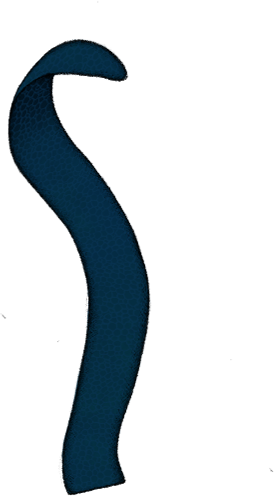
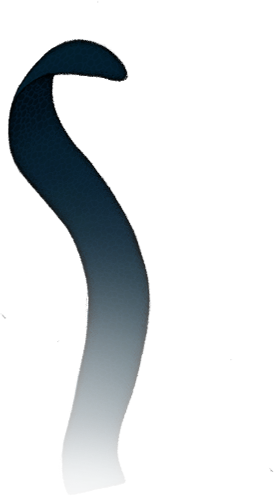
Leithaus: storm-grey site background, new wider land PNG, new grass blade artwork, layer tuning
29-file delta upload from 2026-05-16 evening session.

Index.html changes:
- Body background-image: dark-grey-storm-background@2x.gif, sized 1000x1000 with 50% black overlay, fixed attachment
- .content-body switched to transparent so the storm bg shows behind page sections too
- Hero stage scaled 100vmin to 130vmin (lighthouse + bursts 30% bigger)
- .parallax-layer height 100vh to 104vh; bottom calc(-8vh - 140px); .layer-land separately at 88.4vh, 95% reduction from common 104vh
- .layer-grass width calc(104vh * 5551 / 4621)
- @keyframes sway scale(1.248)
- All 37 grass blade left:% values multiplied by 1.2 to spread cluster 20% wider
- .layer-divider moved to bottom: -75px

Assets:
- land-in-place.png: replaced with wider painted cliff variant (same 5551x4621 canvas)
- dark-grey-storm-background@2x.gif: new 4000x4000 storm-grey texture for site bg
- 7 blade-bunch PNGs + 19 blade-* PNGs: all replaced with greyscale-tested variants

Changed region(s): [[0.2044, 0.4536, 0.5547, 0.998], [0.0876, 0.0907, 0.438, 0.1815]]

diff --git a/index.html b/index.html
@@ -24,7 +24,20 @@
   * { margin: 0; padding: 0; box-sizing: border-box; }
   html { scroll-behavior: smooth; }
   body {
-    background: var(--ink);
+    /* Site-wide background texture: 4000×4000 storm-grey gif, displayed
+       at 1000×1000 (50% of @2x intent — May 16 Hannah tuning). Repeats
+       to fill larger viewports. A 50% black overlay sits on top of the
+       gif via a stacked linear-gradient layer, simulating ~50% opacity
+       on the texture against the pure-black --ink base. .content-body
+       is set to transparent below so the gif shows behind page sections
+       too, not just the hero. */
+    background:
+      linear-gradient(rgba(0,0,0,0.5), rgba(0,0,0,0.5)),
+      url('dark-grey-storm-background@2x.gif') var(--ink);
+    background-size: auto, 1000px 1000px;
+    background-repeat: no-repeat, repeat;
+    background-attachment: fixed, fixed;
+    background-position: center, center top;
     color: var(--parchment);
     font-family: 'Libre Franklin', sans-serif;
     font-weight: 300;
@@ -134,11 +147,16 @@
      wrong width on first paint and snaps later. A div with
      background-image has no replaced-element race. */
   .hero-stage {
+    /* Stage scaled to 130vmin on May 16 (was 100vmin) — Hannah wanted
+       the lighthouse + burst composition 30% bigger. The top/left calc
+       values shift to -65vmin (was -50vmin) so the stage center — the
+       lantern — stays anchored at viewport (15vw, 35vh). To revert,
+       change all three values back to 100vmin / 50vmin pair. */
     position: absolute;
-    width: 100vmin;
-    height: 100vmin;
-    top: calc(35vh - 50vmin);
-    left: calc(15vw - 50vmin);
+    width: 130vmin;
+    height: 130vmin;
+    top: calc(35vh - 65vmin);
+    left: calc(15vw - 65vmin);
     display: grid;
     grid-template-areas: "stack";
     pointer-events: none;
@@ -190,15 +208,23 @@
      a paired unit that moves as one. The cliff/rocks artwork lives at
      canvas y 45-65%, with grass below that.
 
-     `bottom: -8vh` pushes both layers down past the viewport bottom
-     by 8vh, sliding the visible cliff up so it meets the lighthouse
-     base. Tune this single value to slide the whole land+grass unit
-     up (less negative) or down (more negative) as a unit. */
+     `bottom: calc(-8vh - 50px)` pushes both layers down past the viewport
+     bottom — the -8vh handles the proportional offset, the additional
+     -50px is Hannah's tuning (May 16) to drop the grass blades behind
+     the painted cliff at hero start. Tune the additional pixel value
+     to slide the whole land+grass unit up (less negative) or down
+     (more negative) as a unit. */
   .parallax-layer {
+    /* height: 104vh on May 16 second pass — reduced 20% from the
+       130vh I'd set earlier today, because the bigger land was
+       pushing the cliff peak up into the lighthouse base. Bottom
+       offset increased from -50px to -150px (drops the unit another
+       100px lower at start). Keep .layer-grass width formula and
+       grass keyframe scale below in sync if changing this again. */
     position: absolute;
-    bottom: -8vh;
+    bottom: calc(-8vh - 140px);
     left: 0;
-    height: 100vh;
+    height: 104vh;
     width: auto;
     pointer-events: none;
     will-change: transform;
@@ -208,7 +234,16 @@
     height: 100%;
     width: auto;
   }
-  .layer-land { z-index: 4; }
+  .layer-land {
+    z-index: 4;
+    /* Land-only height override added May 16 — shrinks the land PNG
+       by ~5% (98.8vh = 104vh × 0.95) without touching the grass layer
+       or grass blade scale. Hannah's call after the wider painted
+       cliff dropped in. Width is auto so the PNG scales proportionally.
+       (Was 88.4vh / -15% briefly; that was too aggressive — the cliff
+       collapsed to a tuft.) */
+    height: 98.8vh;
+  }
   /* Grass clusters around the rocks — anchored to the same canvas
      as the lighthouse + land so it stays on the left as the browser
      resizes (no crowding when narrow, no thinning when wide).
@@ -222,10 +257,11 @@
      rendered at the same width as the grass layer so the horizontal
      extent matches. Position with `bottom: 0` so the divider's lower
      edge sits at the viewport bottom; tune that value to slide the
-     divider up or down across the grass bases. */
+     divider up or down across the grass bases. Adjusted to 5px
+     (was 55px) on May 16 to follow the land+grass 50px drop. */
   .layer-divider {
     position: absolute;
-    bottom: 55px;
+    bottom: -75px;
     left: 0;
     /* Width sized to cover just the grass extent (the grass blades
        cluster in the left ~68% of the land/grass layer, which itself
@@ -245,7 +281,11 @@
 
   .layer-grass {
     z-index: 5;
-    width: calc(100vh * 5551 / 4621);
+    /* Width formula uses 104vh to match the parallax-layer height
+       (May 16 second pass — was 130vh in the first pass, 100vh
+       originally). Aspect ratio of the canvas (5551 × 4621)
+       is preserved. */
+    width: calc(104vh * 5551 / 4621);
     /* No layer-level mask — the previous version applied the gradient
        on the layer container, but each blade has `will-change: transform`
        (for the sway animation) which puts it on its own GPU compositor
@@ -274,60 +314,64 @@
        gradient could. */
   }
   @keyframes sway {
-    /* scale(1.2) bakes the +20% size into the animation transform, so
-       it doesn't get overridden by the rotation animation. To revert
-       to original size, change scale(1.2) → scale(1) in both keyframes. */
-    0%   { transform: rotate(-2.5deg) scale(1.2); }
-    100% { transform: rotate(2.5deg) scale(1.2); }
+    /* scale(1.248) on May 16 second pass. Was 1.56 in the first
+       (overscaled) pass, was 1.2 before that. Calculation:
+       1.56 × 0.8 = 1.248 — keeps the grass 20% smaller than
+       the first-pass scaling, in proportion with the 104vh land.
+       To revert: 1.2 for original-with-bump, 1.0 for pure unscaled. */
+    0%   { transform: rotate(-2.5deg) scale(1.248); }
+    100% { transform: rotate(2.5deg) scale(1.248); }
   }
   /* All percentages here are of the canvas-width layer
      (100vh × 5551/4621 ≈ 120vh). Grass clusters in the left ~60% of
      the canvas, tapering smaller on the right edge so it dissolves
      into the dark rather than ending abruptly. */
   /* FRONT row — taller bunches at the foreground ground line. Spaced
-     ~6% apart for breathing room. Last 3 bunches scaled down to taper. */
-  .grass.g1  { left:  -1%; bottom: 30vh; height: 11vh;   animation-duration: 4.6s; animation-delay: -1.3s; }
-  .grass.g2  { left:   5%; bottom: 31vh; height: 12vh;   animation-duration: 5.2s; animation-delay: -0.4s; }
-  .grass.g3  { left:  11%; bottom: 30vh; height: 10vh;   animation-duration: 4.1s; animation-delay: -2.1s; }
-  .grass.g4  { left:  17%; bottom: 30vh; height: 13vh;   animation-duration: 5.0s; animation-delay: -1.7s; }
-  .grass.g5  { left:  23%; bottom: 31vh; height: 11vh;   animation-duration: 3.8s; animation-delay: -0.6s; }
-  .grass.g6  { left:  29%; bottom: 30vh; height: 12vh;   animation-duration: 4.7s; animation-delay: -2.4s; }
-  .grass.g7  { left:  35%; bottom: 30vh; height: 10vh;   animation-duration: 5.4s; animation-delay: -0.9s; }
-  .grass.g8  { left:  41%; bottom: 31vh; height: 11.5vh; animation-duration: 4.3s; animation-delay: -1.9s; }
-  .grass.g9  { left:  47%; bottom: 30vh; height:  9vh;   animation-duration: 5.1s; animation-delay: -0.2s; }
-  .grass.g10 { left:  53%; bottom: 30vh; height:  8vh;   animation-duration: 3.9s; animation-delay: -2.6s; }
+     ~6% apart for breathing room. Last 3 bunches scaled down to taper.
+     All left:% values multiplied by 1.2 on May 16 to spread the cluster
+     20% wider horizontally. To revert, divide each left value by 1.2. */
+  .grass.g1  { left:  -1.2%; bottom: 30vh; height: 11vh;   animation-duration: 4.6s; animation-delay: -1.3s; }
+  .grass.g2  { left:   6%;   bottom: 31vh; height: 12vh;   animation-duration: 5.2s; animation-delay: -0.4s; }
+  .grass.g3  { left:  13.2%; bottom: 30vh; height: 10vh;   animation-duration: 4.1s; animation-delay: -2.1s; }
+  .grass.g4  { left:  20.4%; bottom: 30vh; height: 13vh;   animation-duration: 5.0s; animation-delay: -1.7s; }
+  .grass.g5  { left:  27.6%; bottom: 31vh; height: 11vh;   animation-duration: 3.8s; animation-delay: -0.6s; }
+  .grass.g6  { left:  34.8%; bottom: 30vh; height: 12vh;   animation-duration: 4.7s; animation-delay: -2.4s; }
+  .grass.g7  { left:  42%;   bottom: 30vh; height: 10vh;   animation-duration: 5.4s; animation-delay: -0.9s; }
+  .grass.g8  { left:  49.2%; bottom: 31vh; height: 11.5vh; animation-duration: 4.3s; animation-delay: -1.9s; }
+  .grass.g9  { left:  56.4%; bottom: 30vh; height:  9vh;   animation-duration: 5.1s; animation-delay: -0.2s; }
+  .grass.g10 { left:  63.6%; bottom: 30vh; height:  8vh;   animation-duration: 3.9s; animation-delay: -2.6s; }
   /* Tapering — smaller bunches on the right edge dissolving away. */
-  .grass.g24 { left:  59%; bottom: 31vh; height:  6.5vh; animation-duration: 4.5s; animation-delay: -1.5s; }
-  .grass.g25 { left:  64%; bottom: 30vh; height:  5vh;   animation-duration: 5.0s; animation-delay: -2.8s; }
-  .grass.g26 { left:  68%; bottom: 30vh; height:  3.5vh; animation-duration: 4.2s; animation-delay: -0.7s; }
+  .grass.g24 { left:  70.8%; bottom: 31vh; height:  6.5vh; animation-duration: 4.5s; animation-delay: -1.5s; }
+  .grass.g25 { left:  76.8%; bottom: 30vh; height:  5vh;   animation-duration: 5.0s; animation-delay: -2.8s; }
+  .grass.g26 { left:  81.6%; bottom: 30vh; height:  3.5vh; animation-duration: 4.2s; animation-delay: -0.7s; }
   /* MIDDLE blades — between the bunches for density without
      overcrowding. Same tapering on the right. */
-  .grass.g11 { left:   2%; bottom: 31vh; height:  7vh;   animation-duration: 3.2s; animation-delay: -1.0s; }
-  .grass.g12 { left:   8%; bottom: 30vh; height:  8vh;   animation-duration: 3.6s; animation-delay: -2.3s; }
-  .grass.g13 { left:  14%; bottom: 31vh; height:  7.5vh; animation-duration: 3.4s; animation-delay: -0.7s; }
-  .grass.g14 { left:  20%; bottom: 30vh; height:  8vh;   animation-duration: 3.0s; animation-delay: -1.6s; }
-  .grass.g15 { left:  26%; bottom: 31vh; height:  7vh;   animation-duration: 3.7s; animation-delay: -2.0s; }
-  .grass.g16 { left:  32%; bottom: 30vh; height:  8vh;   animation-duration: 3.3s; animation-delay: -0.5s; }
-  .grass.g17 { left:  38%; bottom: 31vh; height:  7vh;   animation-duration: 3.5s; animation-delay: -2.2s; }
-  .grass.g18 { left:  44%; bottom: 30vh; height:  6.5vh; animation-duration: 3.8s; animation-delay: -1.1s; }
-  .grass.g19 { left:  50%; bottom: 31vh; height:  6vh;   animation-duration: 3.1s; animation-delay: -0.3s; }
-  .grass.g27 { left:  56%; bottom: 30vh; height:  5vh;   animation-duration: 3.4s; animation-delay: -1.8s; }
-  .grass.g28 { left:  61%; bottom: 31vh; height:  4vh;   animation-duration: 3.6s; animation-delay: -2.4s; }
-  .grass.g29 { left:  66%; bottom: 30vh; height:  3vh;   animation-duration: 3.2s; animation-delay: -0.9s; }
+  .grass.g11 { left:   2.4%; bottom: 31vh; height:  7vh;   animation-duration: 3.2s; animation-delay: -1.0s; }
+  .grass.g12 { left:   9.6%; bottom: 30vh; height:  8vh;   animation-duration: 3.6s; animation-delay: -2.3s; }
+  .grass.g13 { left:  16.8%; bottom: 31vh; height:  7.5vh; animation-duration: 3.4s; animation-delay: -0.7s; }
+  .grass.g14 { left:  24%;   bottom: 30vh; height:  8vh;   animation-duration: 3.0s; animation-delay: -1.6s; }
+  .grass.g15 { left:  31.2%; bottom: 31vh; height:  7vh;   animation-duration: 3.7s; animation-delay: -2.0s; }
+  .grass.g16 { left:  38.4%; bottom: 30vh; height:  8vh;   animation-duration: 3.3s; animation-delay: -0.5s; }
+  .grass.g17 { left:  45.6%; bottom: 31vh; height:  7vh;   animation-duration: 3.5s; animation-delay: -2.2s; }
+  .grass.g18 { left:  52.8%; bottom: 30vh; height:  6.5vh; animation-duration: 3.8s; animation-delay: -1.1s; }
+  .grass.g19 { left:  60%;   bottom: 31vh; height:  6vh;   animation-duration: 3.1s; animation-delay: -0.3s; }
+  .grass.g27 { left:  67.2%; bottom: 30vh; height:  5vh;   animation-duration: 3.4s; animation-delay: -1.8s; }
+  .grass.g28 { left:  73.2%; bottom: 31vh; height:  4vh;   animation-duration: 3.6s; animation-delay: -2.4s; }
+  .grass.g29 { left:  79.2%; bottom: 30vh; height:  3vh;   animation-duration: 3.2s; animation-delay: -0.9s; }
   /* BACK row — smaller distant blades, slightly higher Y suggests
      depth. Tapering similarly. */
-  .grass.g20 { left:   4%; bottom: 36vh; height:  4vh;   animation-duration: 2.8s; animation-delay: -1.8s; }
-  .grass.g21 { left:  10%; bottom: 36vh; height:  4.5vh; animation-duration: 3.0s; animation-delay: -2.5s; }
-  .grass.g22 { left:  16%; bottom: 36vh; height:  4vh;   animation-duration: 2.6s; animation-delay: -0.8s; }
-  .grass.g23 { left:  22%; bottom: 36vh; height:  4.5vh; animation-duration: 3.2s; animation-delay: -1.4s; }
-  .grass.g30 { left:  28%; bottom: 36vh; height:  4vh;   animation-duration: 2.9s; animation-delay: -2.0s; }
-  .grass.g31 { left:  34%; bottom: 36vh; height:  4.5vh; animation-duration: 3.1s; animation-delay: -0.6s; }
-  .grass.g32 { left:  40%; bottom: 36vh; height:  4vh;   animation-duration: 2.7s; animation-delay: -2.2s; }
-  .grass.g33 { left:  46%; bottom: 36vh; height:  3.5vh; animation-duration: 3.0s; animation-delay: -1.0s; }
-  .grass.g34 { left:  52%; bottom: 36vh; height:  3vh;   animation-duration: 2.8s; animation-delay: -2.6s; }
-  .grass.g35 { left:  58%; bottom: 36vh; height:  2.5vh; animation-duration: 3.2s; animation-delay: -1.5s; }
-  .grass.g36 { left:  63%; bottom: 36vh; height:  2vh;   animation-duration: 2.9s; animation-delay: -0.4s; }
-  .grass.g37 { left:  68%; bottom: 36vh; height:  1.5vh; animation-duration: 3.1s; animation-delay: -2.1s; }
+  .grass.g20 { left:   4.8%; bottom: 36vh; height:  4vh;   animation-duration: 2.8s; animation-delay: -1.8s; }
+  .grass.g21 { left:  12%;   bottom: 36vh; height:  4.5vh; animation-duration: 3.0s; animation-delay: -2.5s; }
+  .grass.g22 { left:  19.2%; bottom: 36vh; height:  4vh;   animation-duration: 2.6s; animation-delay: -0.8s; }
+  .grass.g23 { left:  26.4%; bottom: 36vh; height:  4.5vh; animation-duration: 3.2s; animation-delay: -1.4s; }
+  .grass.g30 { left:  33.6%; bottom: 36vh; height:  4vh;   animation-duration: 2.9s; animation-delay: -2.0s; }
+  .grass.g31 { left:  40.8%; bottom: 36vh; height:  4.5vh; animation-duration: 3.1s; animation-delay: -0.6s; }
+  .grass.g32 { left:  48%;   bottom: 36vh; height:  4vh;   animation-duration: 2.7s; animation-delay: -2.2s; }
+  .grass.g33 { left:  55.2%; bottom: 36vh; height:  3.5vh; animation-duration: 3.0s; animation-delay: -1.0s; }
+  .grass.g34 { left:  62.4%; bottom: 36vh; height:  3vh;   animation-duration: 2.8s; animation-delay: -2.6s; }
+  .grass.g35 { left:  69.6%; bottom: 36vh; height:  2.5vh; animation-duration: 3.2s; animation-delay: -1.5s; }
+  .grass.g36 { left:  75.6%; bottom: 36vh; height:  2vh;   animation-duration: 2.9s; animation-delay: -0.4s; }
+  .grass.g37 { left:  81.6%; bottom: 36vh; height:  1.5vh; animation-duration: 3.1s; animation-delay: -2.1s; }
 
   .parallax-scrim {
     position: absolute;
@@ -377,7 +421,10 @@
   .content-body {
     position: relative;
     z-index: 10;
-    background: var(--ink);
+    /* Was background: var(--ink); changed May 16 to transparent so the
+       body-level storm-grey background gif shows behind the page sections.
+       If section content needs the solid ink back, revert here. */
+    background: transparent;
   }
   section {
     padding: 100px 48px;
